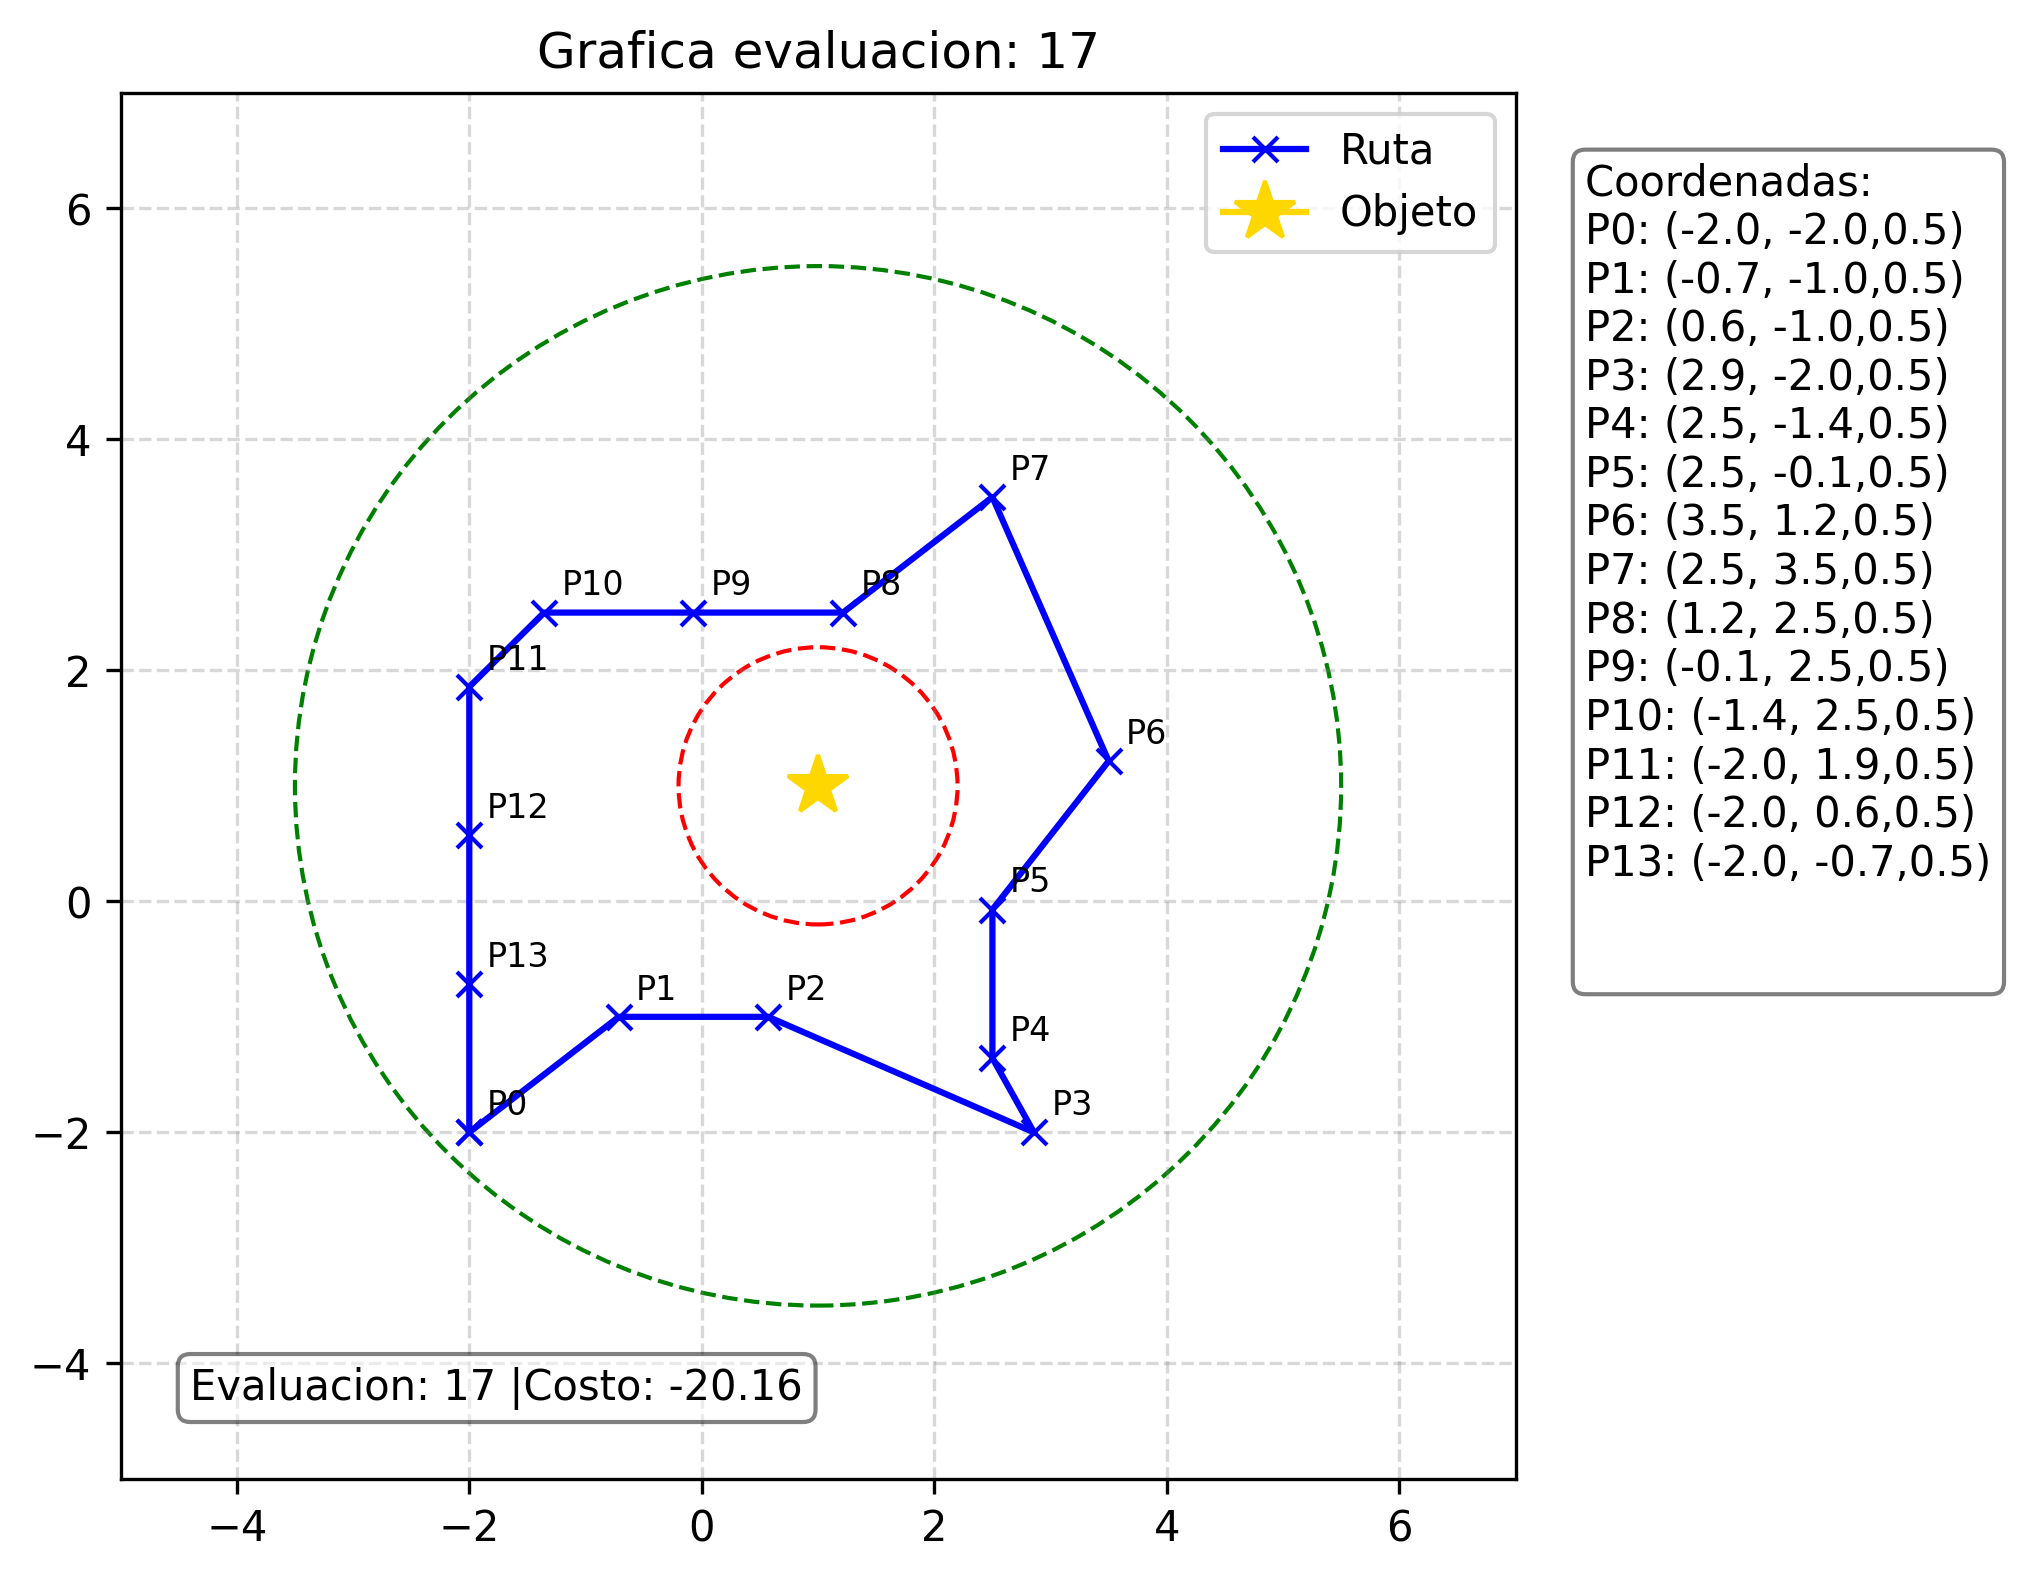
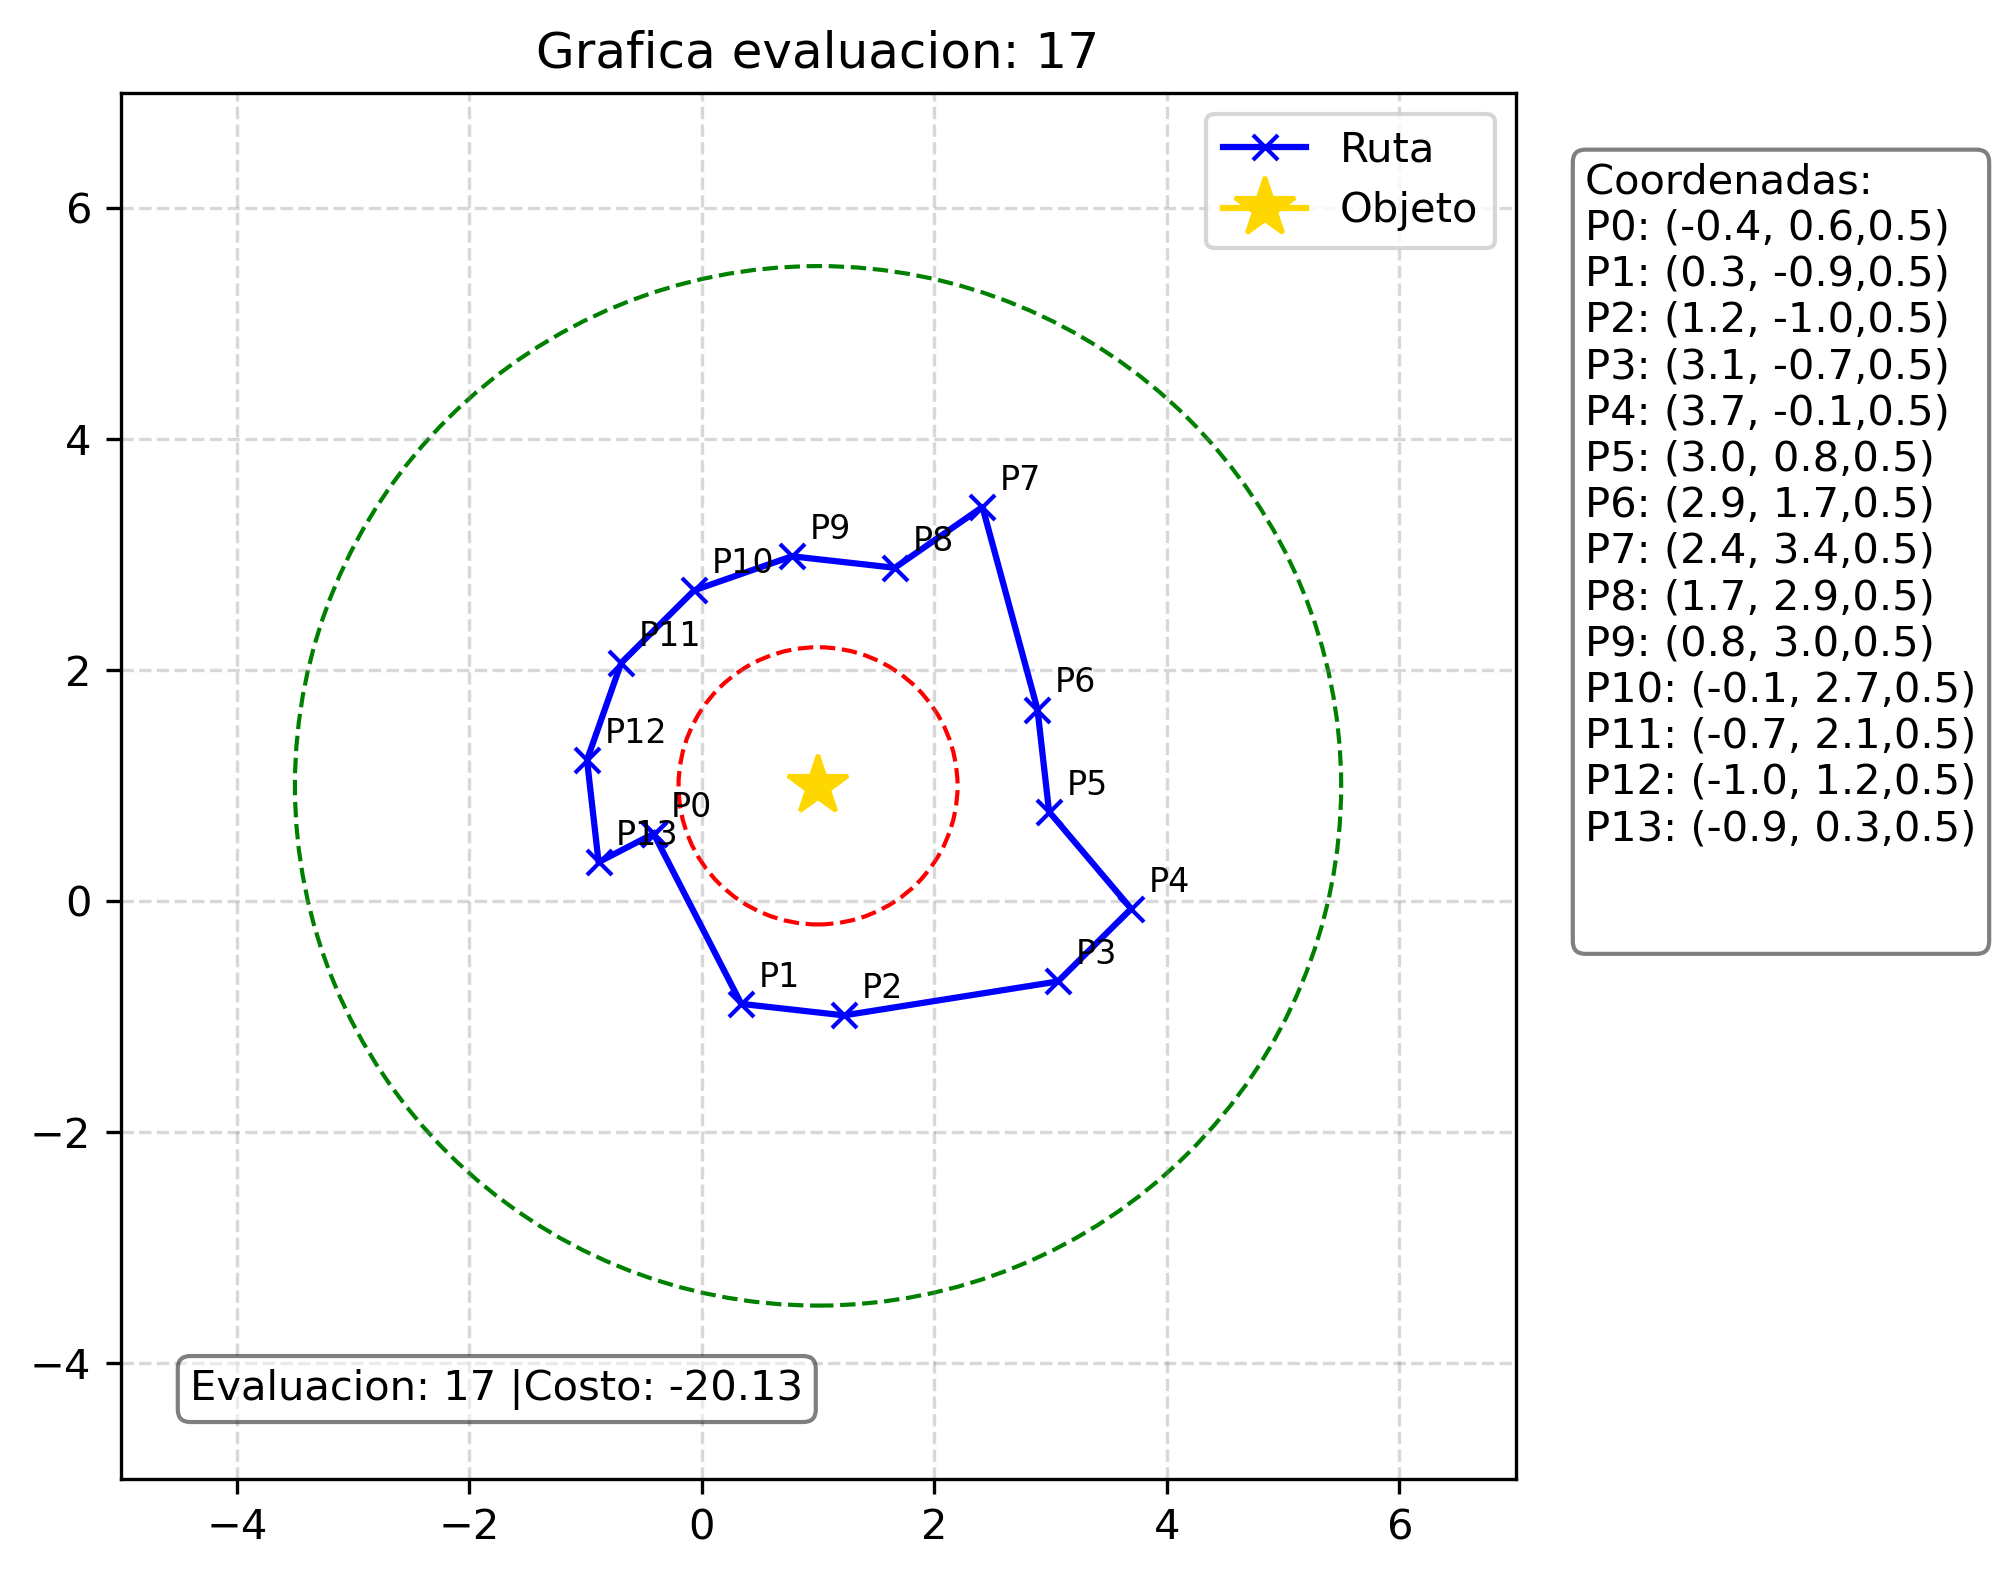
Correccion bugs

diff --git a/controllers/Controlador_principal/Optimizador.py b/controllers/Controlador_principal/Optimizador.py
@@ -82,6 +82,7 @@ def fun_costo(waypointsrt):
     wp_xy = np.reshape(waypointsrt, (-1, 2)).tolist()
 
     wp = []
+    wp_guardar = []
     h=0.0 #Penalizacion limites de volumen
     penalizacion_suavidad = 0.0
 
@@ -93,22 +94,24 @@ def fun_costo(waypointsrt):
         # Calcular radio real actual para restricciones
         r = mt.sqrt((x - 1.0)**2 + (y - 1.0)**2)
 
-        # Restricciones en R (aunque los limites del optimizador ya evitan esto, lo dejamos por seguridad)
+        # Restricciones en r
         if r<radio_min:
             h+=abs(radio_min-r)*500.0
         elif r>radio_max:
             h+=abs(radio_max-r)*500.0
 
-        # Penalización por cambios bruscos (Suavidad)
+        # Penalización por cambios bruscos 
         if i > 0:
             x_prev = wp_xy[i-1][0]
             y_prev = wp_xy[i-1][1]
             dist_prev = mt.sqrt((x - x_prev)**2 + (y - y_prev)**2)
-            # Penalizar si la distancia entre waypoints es muy grande (salto brusco)
+            # Penalizar si la distancia entre waypoints es muy grande 
             if dist_prev > 2.5:
-                penalizacion_suavidad += (dist_prev - 2.5) * 100.0
+                penalizacion_dmax += (dist_prev - 2.5) * 100.0
             
+        yaw = mt.atan2(1.0 - y, 1.0 - x)
         wp.append([x, y, z])
+        wp_guardar.extend([x, y, z, yaw])
 
     # Calcular distancia teórica de la ruta (sin ruido de simulación)
     distancia_teorica = 0.0
@@ -129,7 +132,6 @@ def fun_costo(waypointsrt):
                 penalizacion_distancia+=(minim-di)*500.0
             
         
-    # Penalizar si los segmentos entre waypoints cruzan la zona prohibida (radio 1.2)
     wp_con_inicio = [[-2.0, -2.0, 0.85]] + wp + [wp[0]]
     for i in range(len(wp_con_inicio) - 1):
         p1 = wp_con_inicio[i]
@@ -156,7 +158,7 @@ def fun_costo(waypointsrt):
       
       with open(ruta_historial, mode='a', newline='') as file:
           writer = csv.writer(file)
-          writer.writerow([contador, costo] + np.ravel(wp_xy).tolist())
+          writer.writerow([contador, costo, 0.0, h, penalizacion_distancia, penalizacion_suavidad, distancia_teorica, 0.0] + wp_guardar)
       return costo 
     
     # 2. Escribir 'mision.json'
@@ -191,7 +193,7 @@ def fun_costo(waypointsrt):
     
     ptj = peso_fotos * puntaje
     
-    # El costo ahora incluye la distancia y el tiempo para que COBYLA tenga un gradiente que seguir
+   
     costo = -ptj + h + penalizacion_distancia + penalizacion_suavidad + (peso_dist * distancia_teorica) + (peso_tiempo * tiempo_total)
     
     costos.append(costo)
@@ -201,7 +203,7 @@ def fun_costo(waypointsrt):
   
     with open(ruta_historial, mode='a', newline='') as file:
         writer = csv.writer(file)
-        writer.writerow([contador, costo] + np.ravel(wp_xy).tolist())
+        writer.writerow([contador, costo, puntaje, h, penalizacion_distancia, penalizacion_suavidad, distancia_teorica, tiempo_total] + wp_guardar)
 
     Graficar_trayectoria(puntos,contador,costo,ruta_historia,radio_min,radio_max)
 
@@ -222,7 +224,7 @@ if __name__ == "__main__":
     # "circulo_ruido"
     # "cuadrado_ruido"
 
-    puntos3d=tray_obj.trayectoria_inicial(num_puntos,"cuadrada")
+    puntos3d=tray_obj.trayectoria_inicial(num_puntos,"circular")
     puntos2d=[[p[0],p[1]] for p in puntos3d]
 
     wp_in=np.ravel(puntos2d)
@@ -232,9 +234,9 @@ if __name__ == "__main__":
     with open(ruta_historial, mode='w', newline='') as file:
         writer = csv.writer(file)
         # Crear los encabezados
-        encabezados = ["Evaluacion", "Costo"]
+        encabezados = ["Evaluacion", "Costo", "Puntaje_YOLO", "Penalizacion_Obs", "Penalizacion_Dist", "Penalizacion_Suav", "Distancia_Teorica", "Tiempo_Vuelo"]
         for i in range(len(wp_in)//2):
-            encabezados.extend([f"x{i}", f"y{i}"])
+            encabezados.extend([f"x{i}", f"y{i}", f"z{i}", f"yaw{i}"])
         writer.writerow(encabezados)
 
     # Restricciones para COBYLA: (x-1)^2 + (y-1)^2 >= 1.2^2  y  (x-1)^2 + (y-1)^2 <= 5.5^2
@@ -251,20 +253,27 @@ if __name__ == "__main__":
         restricciones.append({'type': 'ineq', 'fun': crear_restriccion_max(j)})
 
     # Ejecutar COBYLA
-    resultado = minimize(fun_costo, x0=wp_in, method='COBYLA', constraints=restricciones, options={'maxiter': 250, 'disp': True})
+    resultado = minimize(fun_costo, x0=wp_in, method='COBYLA', constraints=restricciones, options={'maxiter': 30, 'disp': True})
     
-    print("\n")
-    print(f"RESULTADO FINAL (X,Y,Z):\n{np.round(np.reshape(resultado.x, (-1, 3)), 2)}")
-
-
+    print(f"\n--- COSTO FINAL: {resultado.fun:.2f} ---")
+    
     ty_opt=np.reshape(resultado.x, (-1, 2)).tolist()
     wp_final = []
 
+    print("RESULTADO FINAL (X, Y, Z, YAW):")
+    wp_guardar_final = []
     for i, xy in enumerate(ty_opt):
         z = altura
         x = xy[0]
         y = xy[1]
+        yaw = mt.atan2(1.0 - y, 1.0 - x)
+        print(f"P{i}: X={x:.2f}, Y={y:.2f}, Z={z:.2f}, Yaw={yaw:.2f}")
         wp_final.append([x, y, z])
+        wp_guardar_final.extend([x, y, z, yaw])
+        
+    with open(ruta_historial, mode='a', newline='') as file:
+        writer = csv.writer(file)
+        writer.writerow(["OPTIMO", resultado.fun, "", "", "", "", "", ""] + wp_guardar_final)
 
     graficas_finales(costos,resultado,ruta_convergencia,ruta_base,altura,rmin,rmax)
 

diff --git a/controllers/Controlador_principal/graficas.py b/controllers/Controlador_principal/graficas.py
@@ -51,7 +51,7 @@ def graficas_finales(costos,resultado,ruta_convergencia,ruta_base,altura,rmin,rm
     mejores_costos = np.minimum.accumulate(costos)
     plt.plot(range(1, len(mejores_costos) + 1), mejores_costos, marker='o', color='blue', label='Mejor Costo')
     plt.plot(range(1, len(costos) + 1), costos, color='lightgray', alpha=0.5, label='Costo Evaluado')
-    plt.ylim(bottom=min(costos)-10, top=20)
+    # plt.ylim(bottom=min(costos)-10, top=20)
     plt.xlabel("Evaluaciones")
     plt.ylabel("Costo")
     plt.title("Convergencia del Optimizador")
@@ -78,12 +78,13 @@ def graficas_finales(costos,resultado,ruta_convergencia,ruta_base,altura,rmin,rm
 
     plt.figure(figsize=(6,6))
     plt.plot(x_opt, y_opt, marker='x', color='blue', label='Ruta')
-    lista="Coordenadas: \n"
+    lista="Coordenadas (x, y, z, yaw): \n"
     ax = plt.gca()
     for i, (x, y) in enumerate(zip(x_opt[:-1], y_opt[:-1])):
+        yaw = np.arctan2(1.0 - y, 1.0 - x)
         #plt.text(x+0.15, y+0.15, f"({x:.1f}, {y:.1f},{z:.1f})", fontsize=8, ha='right', va='center', color='black')
         plt.text(x+0.15, y+0.15, f"P{i}", fontsize=8, color='black',)
-        lista+=f"P{i}: ({x:.1f}, {y:.1f},{altura})\n"
+        lista+=f"P{i}: ({x:.1f}, {y:.1f}, {altura:.1f}, {yaw:.1f})\n"
     lista+="\n"
     caja=dict(boxstyle='round', facecolor='white', alpha=0.5,edgecolor='black')
     ax.text(1.05,0.95,lista,transform=ax.transAxes,fontsize=10,verticalalignment='top',bbox=caja)

diff --git a/controllers/Controlador_principal/trayectoria.py b/controllers/Controlador_principal/trayectoria.py
@@ -118,7 +118,7 @@ class control_trayectoria:
     
     def trayectoria_cuadrado_r(self, numero_puntos):
         trayectoria = self.trayectoria_cuadrada(numero_puntos)
-        dr = 0.5
+        dr = 0.7
         trayectoria = self.ruido(trayectoria, dr)
         return trayectoria 
         
@@ -148,7 +148,7 @@ if __name__ == "__main__":
     # "circulo_ruido"
     # "cuadrado_ruido"
 
-    tray=trayectoria.trayectoria_inicial(numero_puntos,"cuadrada")
+    tray=trayectoria.trayectoria_inicial(numero_puntos,"circular")
     for i, punto in enumerate(tray):
         print(f"Punto {i+1}: X={punto[0]:.2f}, Y={punto[1]:.2f}, Z={punto[2]:.2f}")
 
